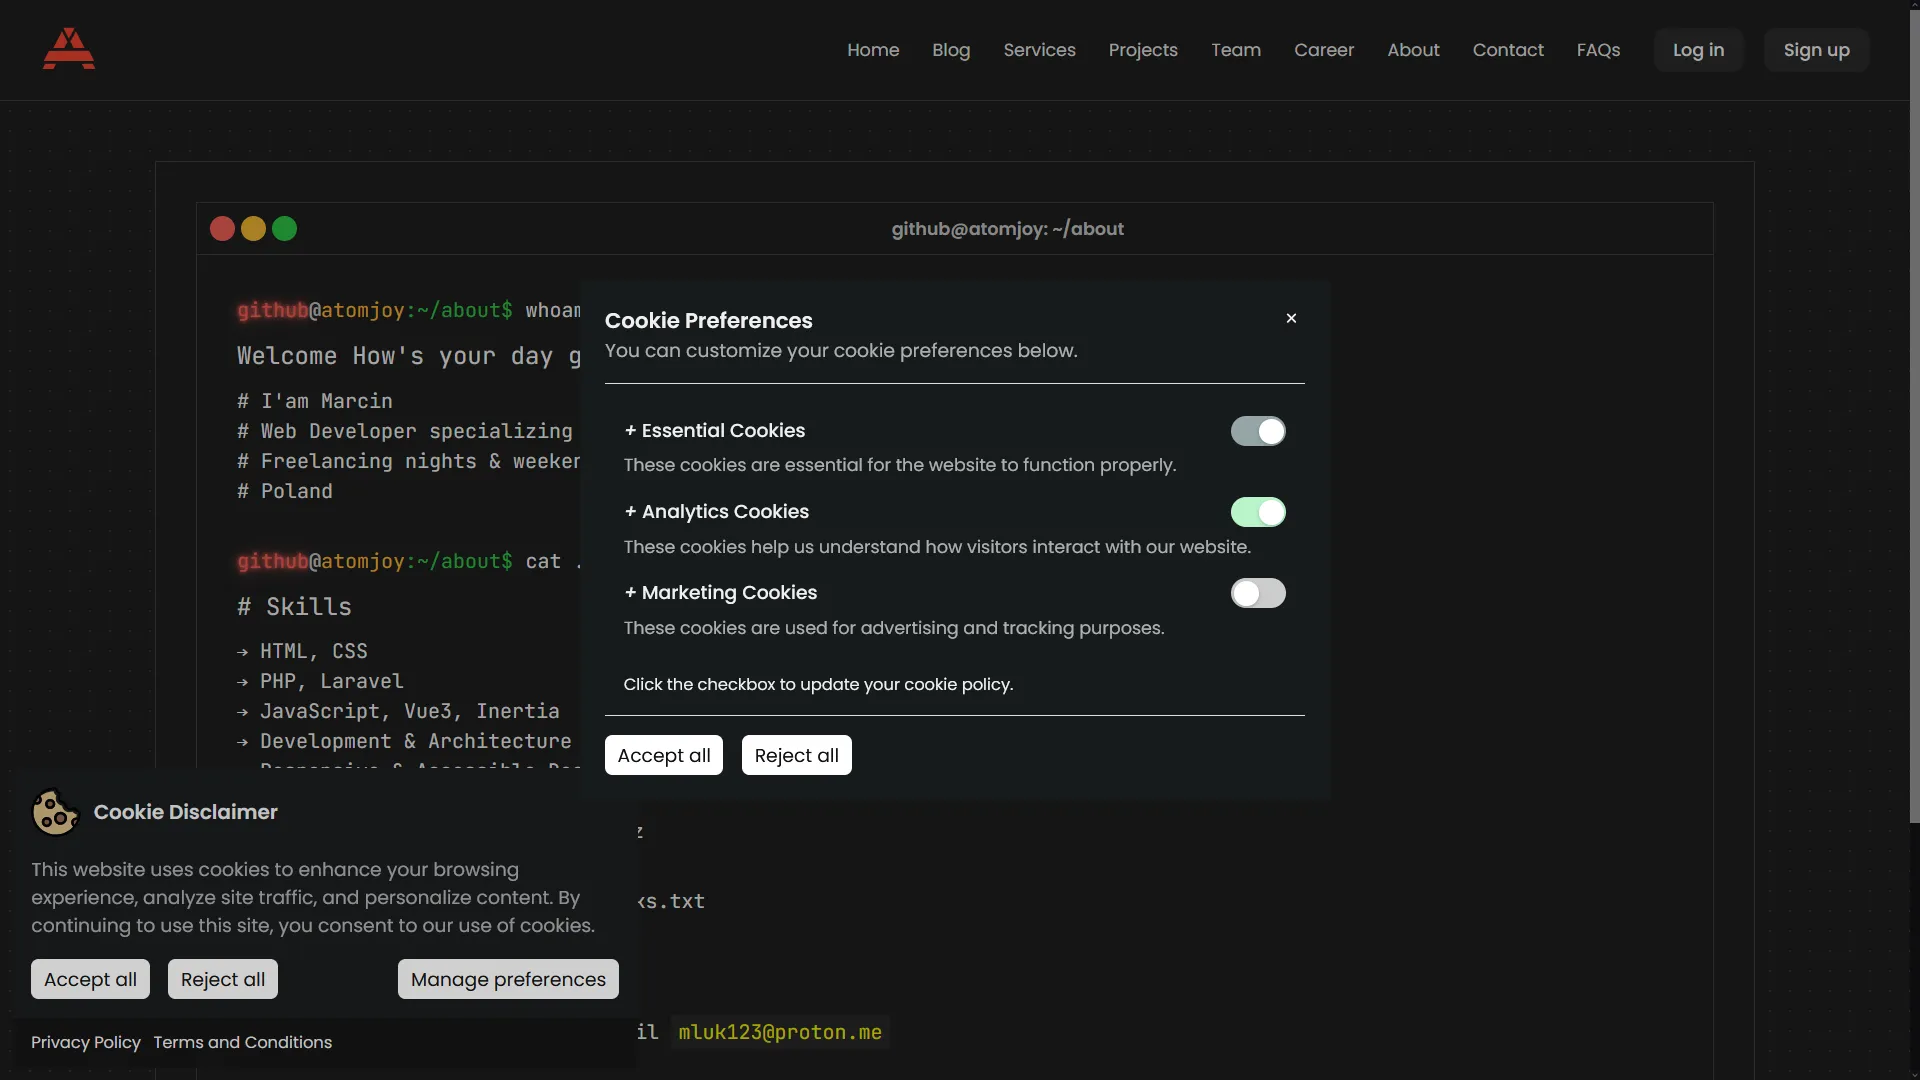
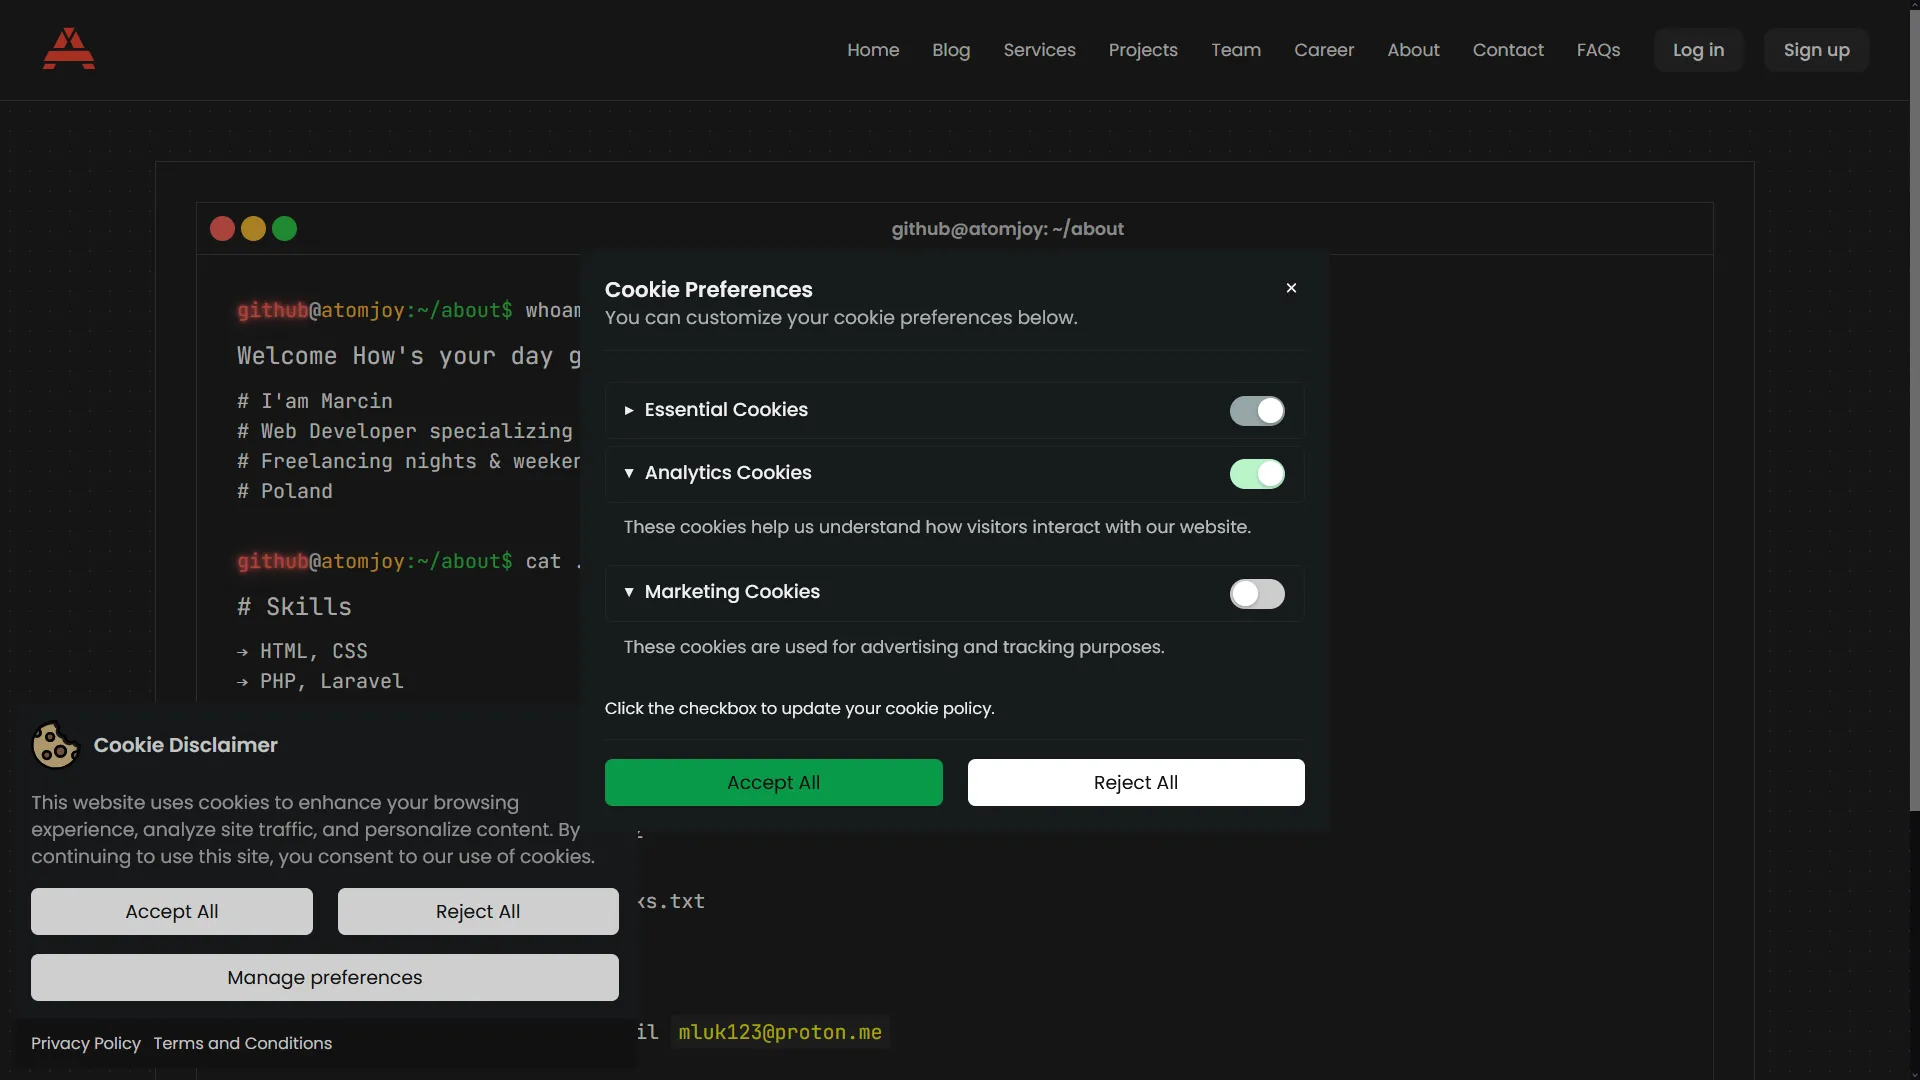
Update

diff --git a/resources/views/banner/privacy-policy.blade.php b/resources/views/banner/privacy-policy.blade.php
@@ -1,0 +1,106 @@
+<h1>We value your privacy</h1>
+<p>We use cookies to enhance your browsing experience, serve personalized ads or content, and analyze our traffic. By clicking "Accept All", you consent to our use of cookies. You can manage your preferences or reject non-essential cookies at any time.</p>
+
+<h3>Third-Party Cookies (Google & Meta)</h3>
+<table border="1" cellpadding="8" cellspacing="0" style="border-collapse: collapse; width: 100%; font-family: sans-serif; font-size: 14px; text-align: left;">
+  <thead>
+    <tr style="background-color: #f2f2f2;">
+      <th>Cookie Name</th>
+      <th>Category</th>
+      <th>Provider</th>
+      <th>Purpose</th>
+      <th>Retention Period</th>
+    </tr>
+  </thead>
+  <tbody>
+    <!-- Google Analytics / gtag -->
+    <tr>
+      <td><strong>_ga</strong></td>
+      <td>Analytics / Statistical</td>
+      <td>Google LLC</td>
+      <td>Used to distinguish unique users and count visits to generate website traffic statistics.</td>
+      <td>2 years</td>
+    </tr>
+    <tr>
+      <td><strong>_ga_*</strong><br><small>(e.g., _ga_X1Y2Z3)</small></td>
+      <td>Analytics / Statistical</td>
+      <td>Google LLC</td>
+      <td>Used to maintain and persist the user's current session state on the website.</td>
+      <td>2 years</td>
+    </tr>
+    <tr>
+      <td><strong>_gcl_au</strong></td>
+      <td>Marketing / Advertising</td>
+      <td>Google LLC</td>
+      <td>Used by Google advertising tools to measure conversion rates and campaign performance.</td>
+      <td>3 months</td>
+    </tr>
+    <!-- Facebook Pixel -->
+    <tr>
+      <td><strong>_fbp</strong></td>
+      <td>Marketing / Tracking</td>
+      <td>Meta Platforms, Inc.</td>
+      <td>Used to track visits, match users with Facebook profiles, and deliver personalized targeted advertisements.</td>
+      <td>3 months</td>
+    </tr>
+    <tr>
+      <td><strong>_fbc</strong></td>
+      <td>Marketing / Tracking</td>
+      <td>Meta Platforms, Inc.</td>
+      <td>Stores the unique Facebook click ID (fbclid) to accurately measure ad campaign performance.</td>
+      <td>3 months</td>
+    </tr>
+  </tbody>
+</table>
+
+<h3>Pliki cookies dostawców zewnętrznych (Google & Meta)</h3>
+<table border="1" cellpadding="8" cellspacing="0" style="border-collapse: collapse; width: 100%; font-family: sans-serif; font-size: 14px; text-align: left;">
+  <thead>
+    <tr style="background-color: #f2f2f2;">
+      <th>Nazwa pliku</th>
+      <th>Kategoria</th>
+      <th>Dostawca</th>
+      <th>Cel działania</th>
+      <th>Okres przechowywania</th>
+    </tr>
+  </thead>
+  <tbody>
+    <!-- Google Analytics / gtag -->
+    <tr>
+      <td><strong>_ga</strong></td>
+      <td>Statystyczne / Analityczne</td>
+      <td>Google LLC</td>
+      <td>Rozróżnianie unikalnych użytkowników i zliczanie wizyt w celu generowania statystyk ruchu.</td>
+      <td>2 lata</td>
+    </tr>
+    <tr>
+      <td><strong>_ga_*</strong><br><small>(np. _ga_X1Y2Z3)</small></td>
+      <td>Statystyczne / Analityczne</td>
+      <td>Google LLC</td>
+      <td>Utrzymywanie stanu bieżącej sesji użytkownika na stronie internetowej.</td>
+      <td>2 lata</td>
+    </tr>
+    <tr>
+      <td><strong>_gcl_au</strong></td>
+      <td>Marketingowe / Reklamowe</td>
+      <td>Google LLC</td>
+      <td>Wykorzystywany przez narzędzia reklamowe do mierzenia konwersji i wydajności kampanii.</td>
+      <td>3 miesiące</td>
+    </tr>
+    <!-- Facebook Pixel -->
+    <tr>
+      <td><strong>_fbp</strong></td>
+      <td>Marketingowe / Śledzenie</td>
+      <td>Meta Platforms, Inc.</td>
+      <td>Śledzenie wizyt, dopasowywanie użytkowników do profili na Facebooku i wyświetlanie reklam personalizowanych.</td>
+      <td>3 miesiące</td>
+    </tr>
+    <tr>
+      <td><strong>_fbc</strong></td>
+      <td>Marketingowe / Śledzenie</td>
+      <td>Meta Platforms, Inc.</td>
+      <td>Zapisywanie unikalnego identyfikatora kliknięcia w reklamę na Facebooku w celu pomiaru skuteczności kampanii.</td>
+      <td>3 miesiące</td>
+    </tr>
+  </tbody>
+</table>

diff --git a/resources/views/banner/cookies.blade.php b/resources/views/banner/cookies.blade.php
@@ -1,0 +1,63 @@
+<script>
+// Accept all Google and FacebookPixel cookies
+function logAddedCookies() {
+	console.log("%c[Cookie Manager] Accept All! cookies:", "color: #00bcd4; font-weight: bold; font-size: 12px;");
+	console.table([
+		{ "Plik Cookie": "_ga", "Dostawca": "Google Analytics", "Typ": "Statystyczne", "Status": "Aktywne" },
+		{ "Plik Cookie": "_ga_*", "Dostawca": "Google Analytics", "Typ": "Statystyczne", "Status": "Aktywne" },
+		{ "Plik Cookie": "_gcl_au", "Dostawca": "Google Ads", "Typ": "Marketingowe", "Status": "Aktywne" },
+		{ "Plik Cookie": "_fbp", "Dostawca": "Meta / Facebook", "Typ": "Marketingowe", "Status": "Aktywne" },
+		{ "Plik Cookie": "_fbc", "Dostawca": "Meta / Facebook", "Typ": "Marketingowe (jeśli z reklamy)", "Status": "Aktywne" }
+	]);
+}
+
+// Show cookies in console
+function logActiveBrowserCookies() {
+	setTimeout(function () {
+		var cookieString = document.cookie;
+		if (!cookieString) {
+			console.log("%c[Cookie Manager] No cookies.", "color: #ff9800; font-weight: bold;");
+			return;
+		}
+		var cookiesArray = cookieString.split(';').map(function (cookie) {
+			var parts = cookie.split('=');
+			return {
+				"Nazwa pliku cookie": parts[0].trim(),
+				"Wartość (Skrócona)": parts[1] ? parts[1].trim().substring(0, 15) + "..." : ""
+			};
+		});
+		console.log("%c[Cookie Manager] Sukces! Cookies list:", "color: #4caf50; font-weight: bold; font-size: 12px;");
+		console.table(cookiesArray);
+	}, 1000);
+}
+
+// Delete gta, pixel cookies
+function deleteSpyCookies() {
+	var domain = window.location.hostname;
+	var domainParts = domain.split('.');
+	var cookiesToClear = ['_ga', '_gid', '_gcl_au', '_fbp', '_fbc'];
+
+	cookiesToClear.forEach(function(cookieName) {
+		if (domainParts.length > 2) {
+			var mainDomain = '.' + domainParts.slice(-2).join('.');
+			document.cookie = cookieName + '=; expires=Thu, 01 Jan 1970 00:00:00 UTC; path=/; domain=' + mainDomain;
+		}
+		document.cookie = cookieName + '=; expires=Thu, 01 Jan 1970 00:00:00 UTC; path=/; domain=.' + domain;
+		document.cookie = cookieName + '=; expires=Thu, 01 Jan 1970 00:00:00 UTC; path=/; domain=' + domain;
+		document.cookie = cookieName + '=; expires=Thu, 01 Jan 1970 00:00:00 UTC; path=/;';
+	});
+	// GA4 ID (_ga_X1Y2Z3)
+	var allCookies = document.cookie.split(';');
+	for (var i = 0; i < allCookies.length; i++) {
+		var cName = allCookies[i].split('=')[0].trim();
+		if (cName.indexOf('_ga_') === 0) {
+			document.cookie = cName + '=; expires=Thu, 01 Jan 1970 00:00:00 UTC; path=/; domain=' + domain;
+			if (domainParts.length > 2) {
+				var mainDomain = '.' + domainParts.slice(-2).join('.');
+				document.cookie = cName + '=; expires=Thu, 01 Jan 1970 00:00:00 UTC; path=/; domain=' + mainDomain;
+			}
+		}
+	}
+	console.log("[Cookie Manager] Wow 'denied'. Cookies deleted from browser.");
+}
+</script>

diff --git a/resources/views/banner/default.blade.php b/resources/views/banner/default.blade.php
@@ -19,12 +19,12 @@
 		<p class="cookie-buzz-banner-description">@lang(config('cookie-buzz.cookie_description'))</p>
 
 		<div class="cookie-buzz-button-container">
-			<div class="cookie-buzz-button-action">
+			<div class="cookie-buzz-button-actions">
 				<button type="button" id="cookie-buzz-accept" class="cookie-buzz-button cookie-buzz-button-accept" aria-label="@lang('Accept cookies')">
-					@lang(config('cookie-buzz.cookie_accept_btn_text', 'Accept all'))
+					@lang(config('cookie-buzz.cookie_accept_btn_text', 'Accept All'))
 				</button>
 				<button type="button" id="cookie-buzz-reject" class="cookie-buzz-button cookie-buzz-button-reject" aria-label="@lang('Reject cookies')">
-					@lang(config('cookie-buzz.cookie_reject_btn_text', 'Reject all'))
+					@lang(config('cookie-buzz.cookie_reject_btn_text', 'Reject All'))
 				</button>
 			</div>
 
@@ -129,10 +129,10 @@
 		<div class="cookie-buzz-preferences-modal-footer">
             <div class="cookie-buzz-preferences-group">
 				<button type="button" id="cookie-buzz-accept-preferences" class="cookie-buzz-button cookie-buzz-button-preferences-accept" aria-label="@lang('Accept cookies')">
-					@lang(config('cookie-buzz.cookie_accept_btn_text', 'Accept all'))
+					@lang(config('cookie-buzz.cookie_accept_btn_text', 'Accept All'))
 				</button>
 				<button type="button" id="cookie-buzz-reject-preferences" class="cookie-buzz-button cookie-buzz-button-preferences-reject" aria-label="@lang('Reject cookies')">
-					@lang(config('cookie-buzz.cookie_reject_btn_text', 'Reject all'))
+					@lang(config('cookie-buzz.cookie_reject_btn_text', 'Reject All'))
 				</button>
             </div>
         </div>

diff --git a/resources/views/theme/default.blade.php b/resources/views/theme/default.blade.php
@@ -122,9 +122,6 @@
 	float: left;
 	width: 100%;
 	padding: 15px;
-	display: flex;
-	align-items: center;
-	justify-content: space-between;
 }
 
 .cookie-buzz-links-container {
@@ -198,28 +195,33 @@
 .cookie-buzz-button {
 	font-size: 15px;
 	float: left;
-	padding: 5px 10px;
+	padding: 8px 10px;
 	color: var(--cookie-color-btn-text);
 	background: var(--cookie-color-btn-bg);
-	margin-right: 15px;
 	border-radius: 6px;
 	transition: all .6s;
 	cursor: pointer;
 }
 
 .cookie-buzz-button-preferences {
-	float: right;
-	margin-right: 0px;
+	float: left;
+	width: 100%;
+}
+
+.cookie-buzz-button-preferences:hover {
+	background: var(--cookie-color-orange);
 }
 
 .cookie-buzz-button-accept, .cookie-buzz-button-preferences-accept {
 	color: var(--cookie-color-btn-text);
 	background: var(--cookie-color-btn-bg);
+	width: 50%;
 }
 
 .cookie-buzz-button-reject, .cookie-buzz-button-preferences-reject {
 	color: var(--cookie-color-btn-text);
 	background: var(--cookie-color-btn-bg);
+	width: 50%;
 }
 
 .cookie-buzz-button-accept:hover, .cookie-buzz-button-preferences-accept:hover {
@@ -234,6 +236,25 @@
 	float: left;
 	width: 100%;
 	padding-top: 10px;
+}
+
+.cookie-buzz-preferences-group {
+	float: left;
+	width: 100%;
+	display: flex;
+	align-items: center;
+	justify-content: space-between;
+	gap: 20px;
+}
+
+.cookie-buzz-button-actions {
+	float: left;
+	width: 100%;
+	margin-bottom: 15px;
+	display: flex;
+	align-items: center;
+	justify-content: space-between;
+	gap: 20px;
 }
 
 /* Improved Toggle Switch */

diff --git a/config/config.php b/config/config.php
@@ -31,10 +31,10 @@ return [
     'cookie_description' => "This website uses cookies to enhance your browsing experience, analyze site traffic, and personalize content. By continuing to use this site, you consent to our use of cookies.",
 
     // Accept all cookies button text
-    'cookie_accept_btn_text' => 'Accept all',
+    'cookie_accept_btn_text' => 'Accept All',
 
     // Reject all cookies button text
-    'cookie_reject_btn_text' => 'Reject all',
+    'cookie_reject_btn_text' => 'Reject All',
 
     // Manage preferences button text
     'cookie_preferences_btn_text' => 'Manage preferences',
